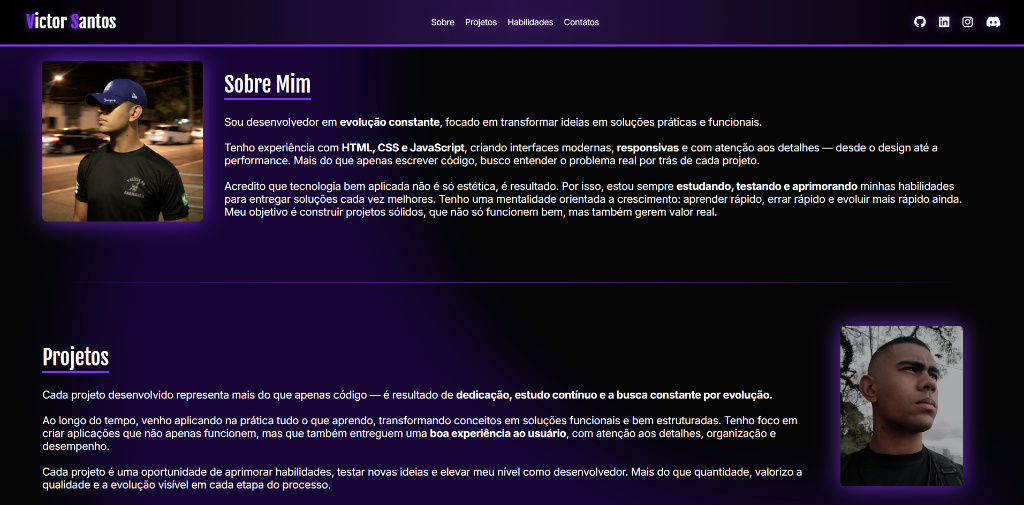
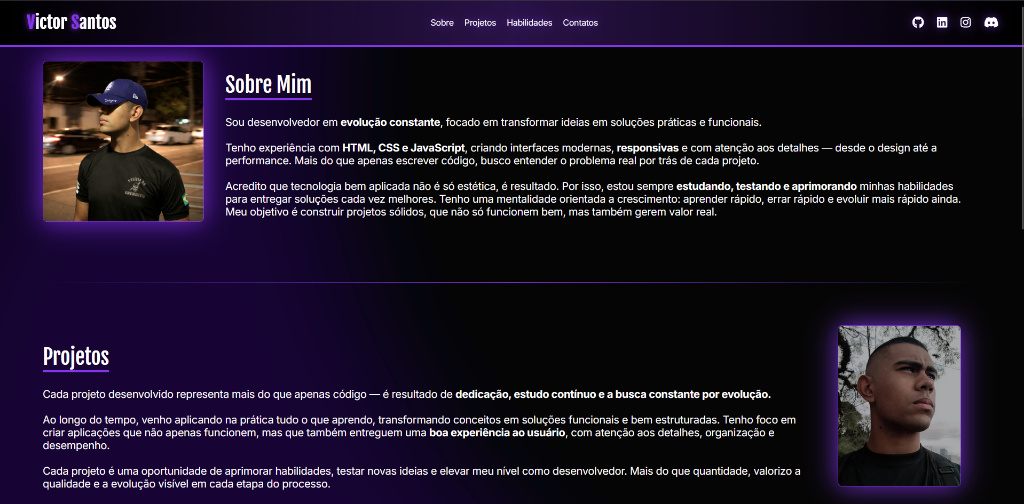
Add files via upload

diff --git a/style.css b/style.css
@@ -113,7 +113,8 @@ main{
     height: 300px;
     width: 300px;
     border-radius: 8px;
-    box-shadow: 0 0 40px rgba(124, 58, 237, 0.9);
+    box-shadow: 0 0 50px rgba(124, 58, 237, 0.9);
+    border: 1px solid #7c3aed;
 }
 
 #about-me{
@@ -123,11 +124,14 @@ main{
     align-items: center;
 
     margin: 100px 0;
+
+    scroll-margin-top:150px;
 }
 
 #about-me img{
     border-radius: 8px;
-    box-shadow: 0 0 40px rgba(124, 58, 237, 0.9);
+    box-shadow: 0 0 50px rgba(124, 58, 237, 0.9);
+    border: 1px solid #7c3aed;
 }
 
 .about-me-box{
@@ -156,7 +160,7 @@ main{
 .divider {
   height: 1px;
   background: linear-gradient(to right, transparent, #7c3aed, transparent);
-  margin: 0;
+  margin-bottom:80px;
 }
 
 #box-projects{
@@ -189,8 +193,9 @@ main{
 }
 
 .card:hover{
-    transform: scale(1.1);
+    transform: translateY(-10px);
     cursor: pointer;
+    box-shadow: 0 0 25px rgb(139, 71, 255);
 }
 
 .card p{
@@ -227,4 +232,115 @@ main{
 
 .mpj-box1{
     display: flex;
+}
+
+
+.card-skills{
+    background: 
+        linear-gradient(rgba(0,0,0,0.6), rgba(0,0,0,0.01)),
+        url("assets/blurry-gradient-haikei.png") center / cover no-repeat;
+    border: 1px solid #7c3aed;
+    border-radius: 10px;
+    box-shadow: 0 0 20px rgba(124, 58, 237, 0.5);
+    width: 300px;
+
+    transition: all .2s ease;
+
+}
+
+.card-skills:hover{
+    transform: translateY(-10px);
+    cursor: pointer;
+    box-shadow: 0 0 25px rgb(139, 71, 255);
+}
+
+.card-skills h3{
+    display: flex;
+    justify-content: center;
+
+    font-family: "Fjalla One", sans-serif;
+    font-weight: 400;
+    font-style: normal;
+    font-size: 30px;
+    text-decoration: underline;
+    text-decoration-color: #7c3aed;
+    text-underline-offset: 10px;
+    text-decoration-thickness: 4px;
+}
+
+.icons-skills{
+    display: grid;
+    grid-template-rows: repeat(3, 1fr);
+    place-items: center;
+    margin-bottom: 50px;
+    margin-top: 50px;
+    font-size: 50px;
+    gap: 40px;
+}
+
+.table-skills{
+    display: flex;
+    flex-direction: row;
+    gap: 50px;
+    margin-top: 80px;
+}
+
+#html-logo{
+    filter: drop-shadow(0 0 8px #fb923caa);
+    transition: all .2s ease;
+}
+
+#html-logo:hover{
+    transform: scale(1.1);
+    filter: drop-shadow(0 0 8px #fb923c);
+}
+
+#css-logo{
+    filter: drop-shadow(0 0 8px #38bdf8aa);
+    transition: all .2s ease;
+}
+
+#css-logo:hover{
+    transform: scale(1.1);
+    filter: drop-shadow(0 0 8px #38bdf8);
+}
+
+#js-logo{
+    filter: drop-shadow(0 0 8px #facc15aa);
+    transition: all .2s ease;
+}
+
+#js-logo:hover{
+    transform: scale(1.1);
+    filter: drop-shadow(0 0 8px #facc15);
+}
+
+#python-logo{
+    filter: drop-shadow(0 0 10px #FFD43Baa);
+    transition: all .2s ease;
+}
+
+#python-logo:hover{
+    transform: scale(1.1);
+    filter: drop-shadow(0 0 8px #FFD43B);
+}
+
+#windows-logo{
+    filter: drop-shadow(0 0 8px #3EA6FFaa);
+    transition: all .2s ease;
+}
+
+#windows-logo:hover{
+    transform: scale(1.1);
+    filter: drop-shadow(0 0 10px #65b5fb);
+}
+
+#linux-logo{
+    filter:drop-shadow(0 0 8px #ffffaa);
+    transition: all .2s ease;
+}
+
+#linux-logo:hover{
+    transform: scale(1.1);
+    filter:drop-shadow(0 0 10px #ffff);
 }

diff --git a/index.html b/index.html
@@ -5,6 +5,7 @@
     <meta name="viewport" content="width=device-width, initial-scale=1.0">
     <link rel="stylesheet" href="style.css">
     <link rel="stylesheet" href="https://cdnjs.cloudflare.com/ajax/libs/font-awesome/6.5.1/css/all.min.css">
+    <link rel="stylesheet" href="https://cdn.jsdelivr.net/gh/devicons/devicon@latest/devicon.min.css">
     <title>Victor Santos</title>
 </head>
 <body>
@@ -15,7 +16,7 @@
         <nav class="header-nav">
             <a href="#about-me" class="header-link">Sobre</a>
             <a href="#my-projects" class="header-link">Projetos</a>
-            <a href="#" class="header-link">Habilidades</a>
+            <a href="#skills" class="header-link">Habilidades</a>
             <a href="#" class="header-link">Contatos</a>
         </nav>
         <div class="icons-btn">
@@ -86,6 +87,37 @@
         </section>
 
         <div class="divider"></div>
+
+        <section id="skills">
+            <h2 class="title-section">Habilidades</h2>
+            <div class="table-skills">
+                <div class="card-skills">
+                    <h3>Front-End</h3>
+                    <div class="icons-skills">
+                        <i class="devicon-html5-plain colored" id="html-logo" title="HTML - Hyper Text Markup Language"></i>
+                        <i class="devicon-css3-plain colored" id="css-logo" title="CSS - Cascating Style Sheets"></i>
+                        <i class="devicon-javascript-plain colored" id="js-logo" title="JavaScript - Interações na Página"></i>
+                    </div>
+                </div>
+
+                <div class="card-skills">
+                    <h3>Back-End</h3>
+                    <div class="icons-skills">
+                         <i class="devicon-python-plain colored" id="python-logo" title="Python - Linguagem de Programação Orientada a Objetos"></i>
+                    </div>
+                   
+                </div>
+
+                <div class="card-skills">
+                    <h3>Sistema Operacional</h3>
+                    <div class="icons-skills">  
+                        <i class="devicon-windows11-original colored" id="windows-logo" title="Windows"></i>
+                        <i class="devicon-linux-plain" id="linux-logo" title="Linux"></i>
+                    </div>
+                   
+                </div>
+            </div>
+        </section>
     </main>
 </body>
 </html>
